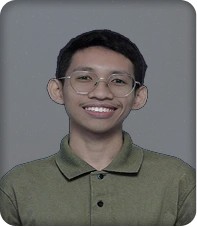
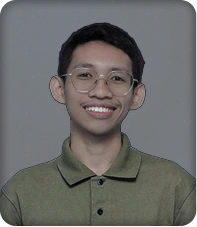
chore(nexus-web): update teams image and labels  (#1135)
* chore(nexus-web): update label from "Partnership" to "Partnerships"

* chore(nexus-web): update team images for administrative and web development roles

diff --git a/apps/nexus-web/src/components/shared/Navbar.tsx b/apps/nexus-web/src/components/shared/Navbar.tsx
@@ -206,7 +206,7 @@ export const Navbar: React.FC<NavbarProps> = ({
       { href: "/about", label: "Who is GDG" },
       { href: "/about/team", label: "Our Team" },
       { href: "/about/history", label: "History" },
-      { href: "/about/partnership", label: "Partnership" },
+      { href: "/about/partnership", label: "Partnerships" },
       { href: "/about/benefits", label: "Benefits" },
     ],
     community: [

diff --git a/apps/nexus-web/src/components/shared/Footer.tsx b/apps/nexus-web/src/components/shared/Footer.tsx
@@ -12,7 +12,7 @@ export const Footer: React.FC = () => {
       { href: "/about", label: "Who is GDG" },
       { href: "/about/team", label: "Our Team" },
       { href: "/about/history", label: "History" },
-      { href: "/about/partnership", label: "Partnership" },
+      { href: "/about/partnership", label: "Partnerships" },
       { href: "/about/benefits", label: "Benefits" },
     ],
     network: [

diff --git a/apps/nexus-web/src/features/about/components/TeamSection.tsx b/apps/nexus-web/src/features/about/components/TeamSection.tsx
@@ -210,7 +210,7 @@ const TOP_LEVEL_ITEMS = [
   { id: "creatives", label: "Creatives" },
   { id: "operations", label: "Operations" },
   { id: "community-relations", label: "Community Relations" },
-  { id: "partnership", label: "Partnership" },
+  { id: "partnership", label: "Partnerships" },
 ];
 
 const TECH_ITEMS = [
